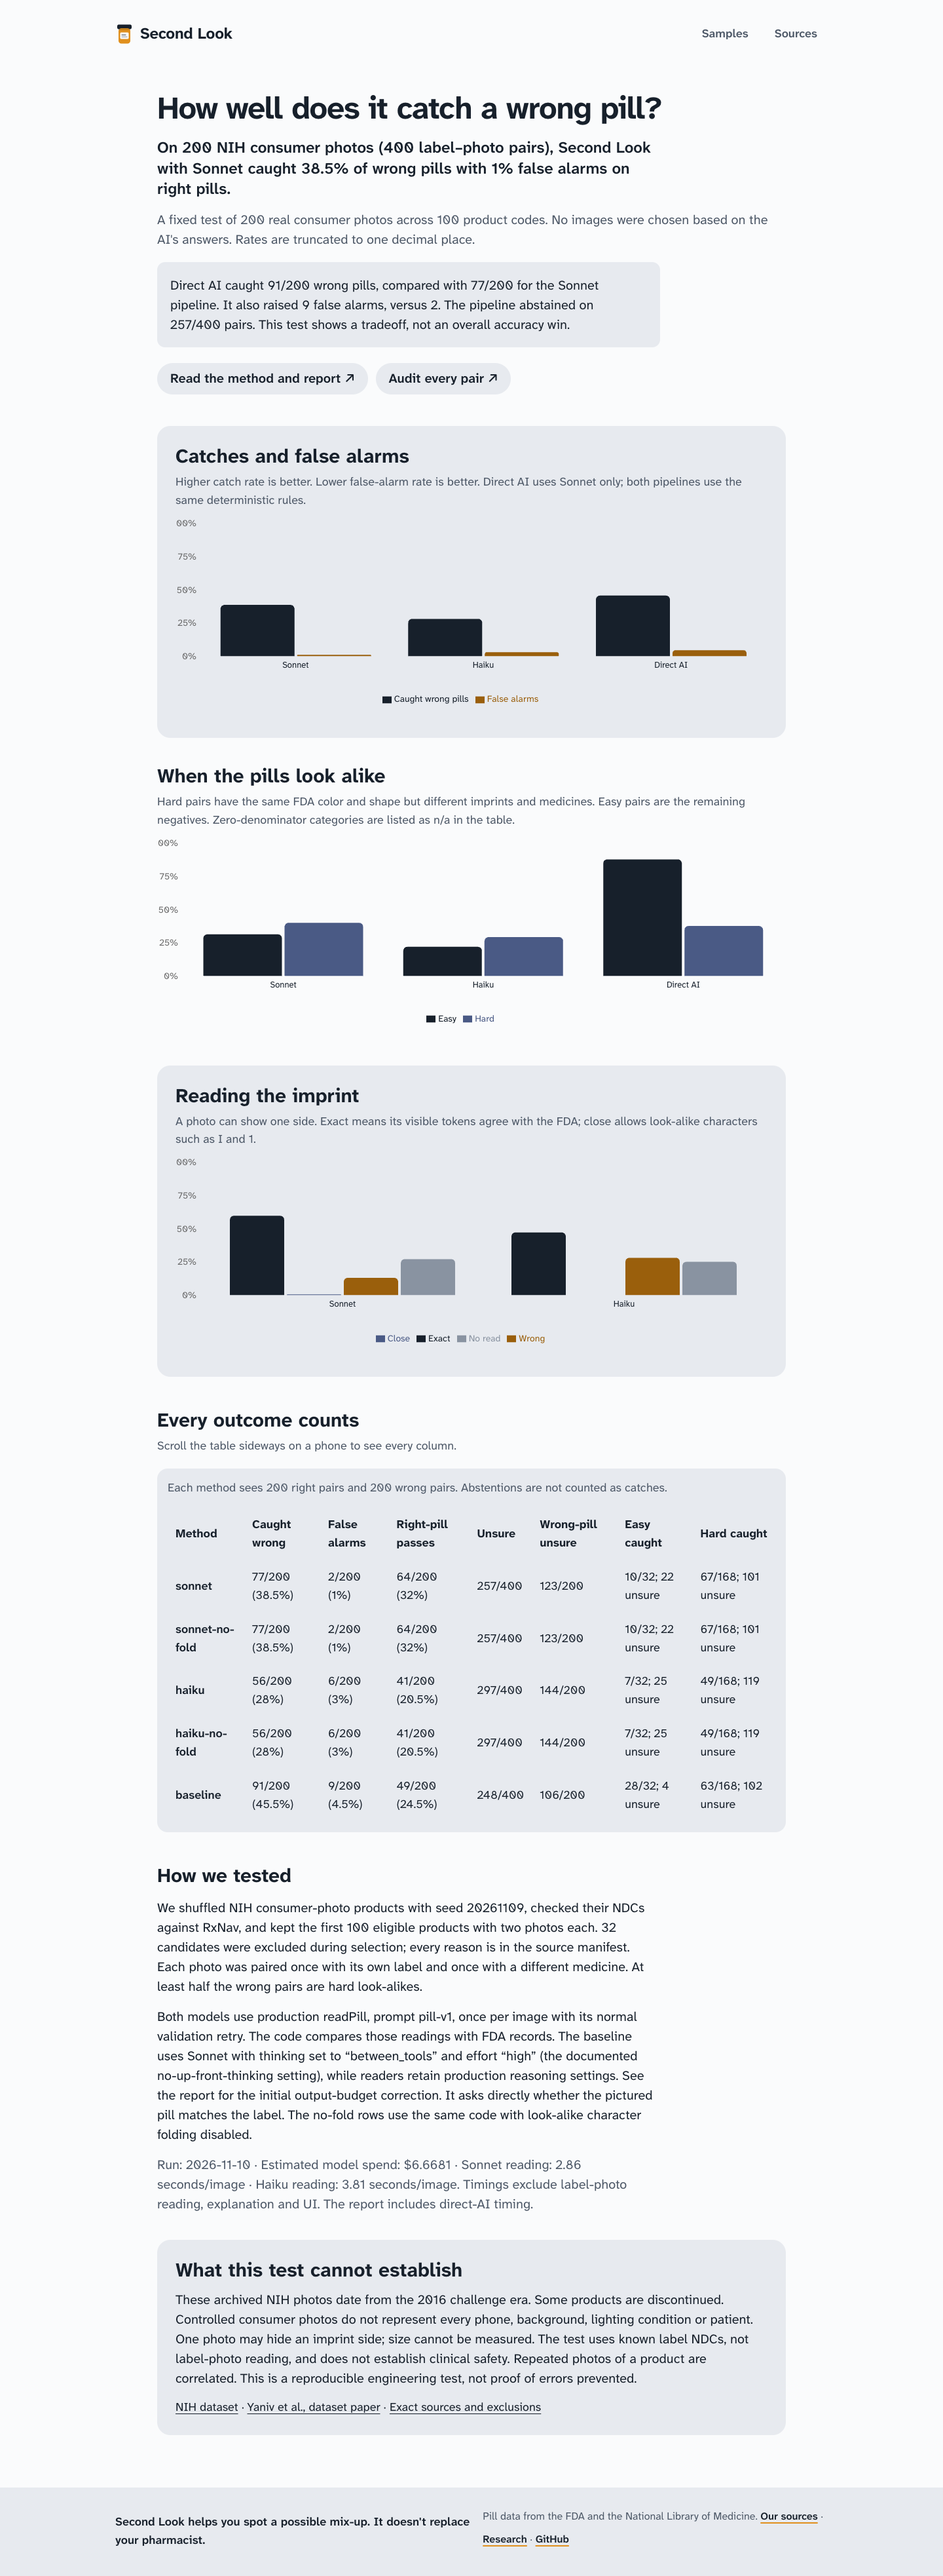
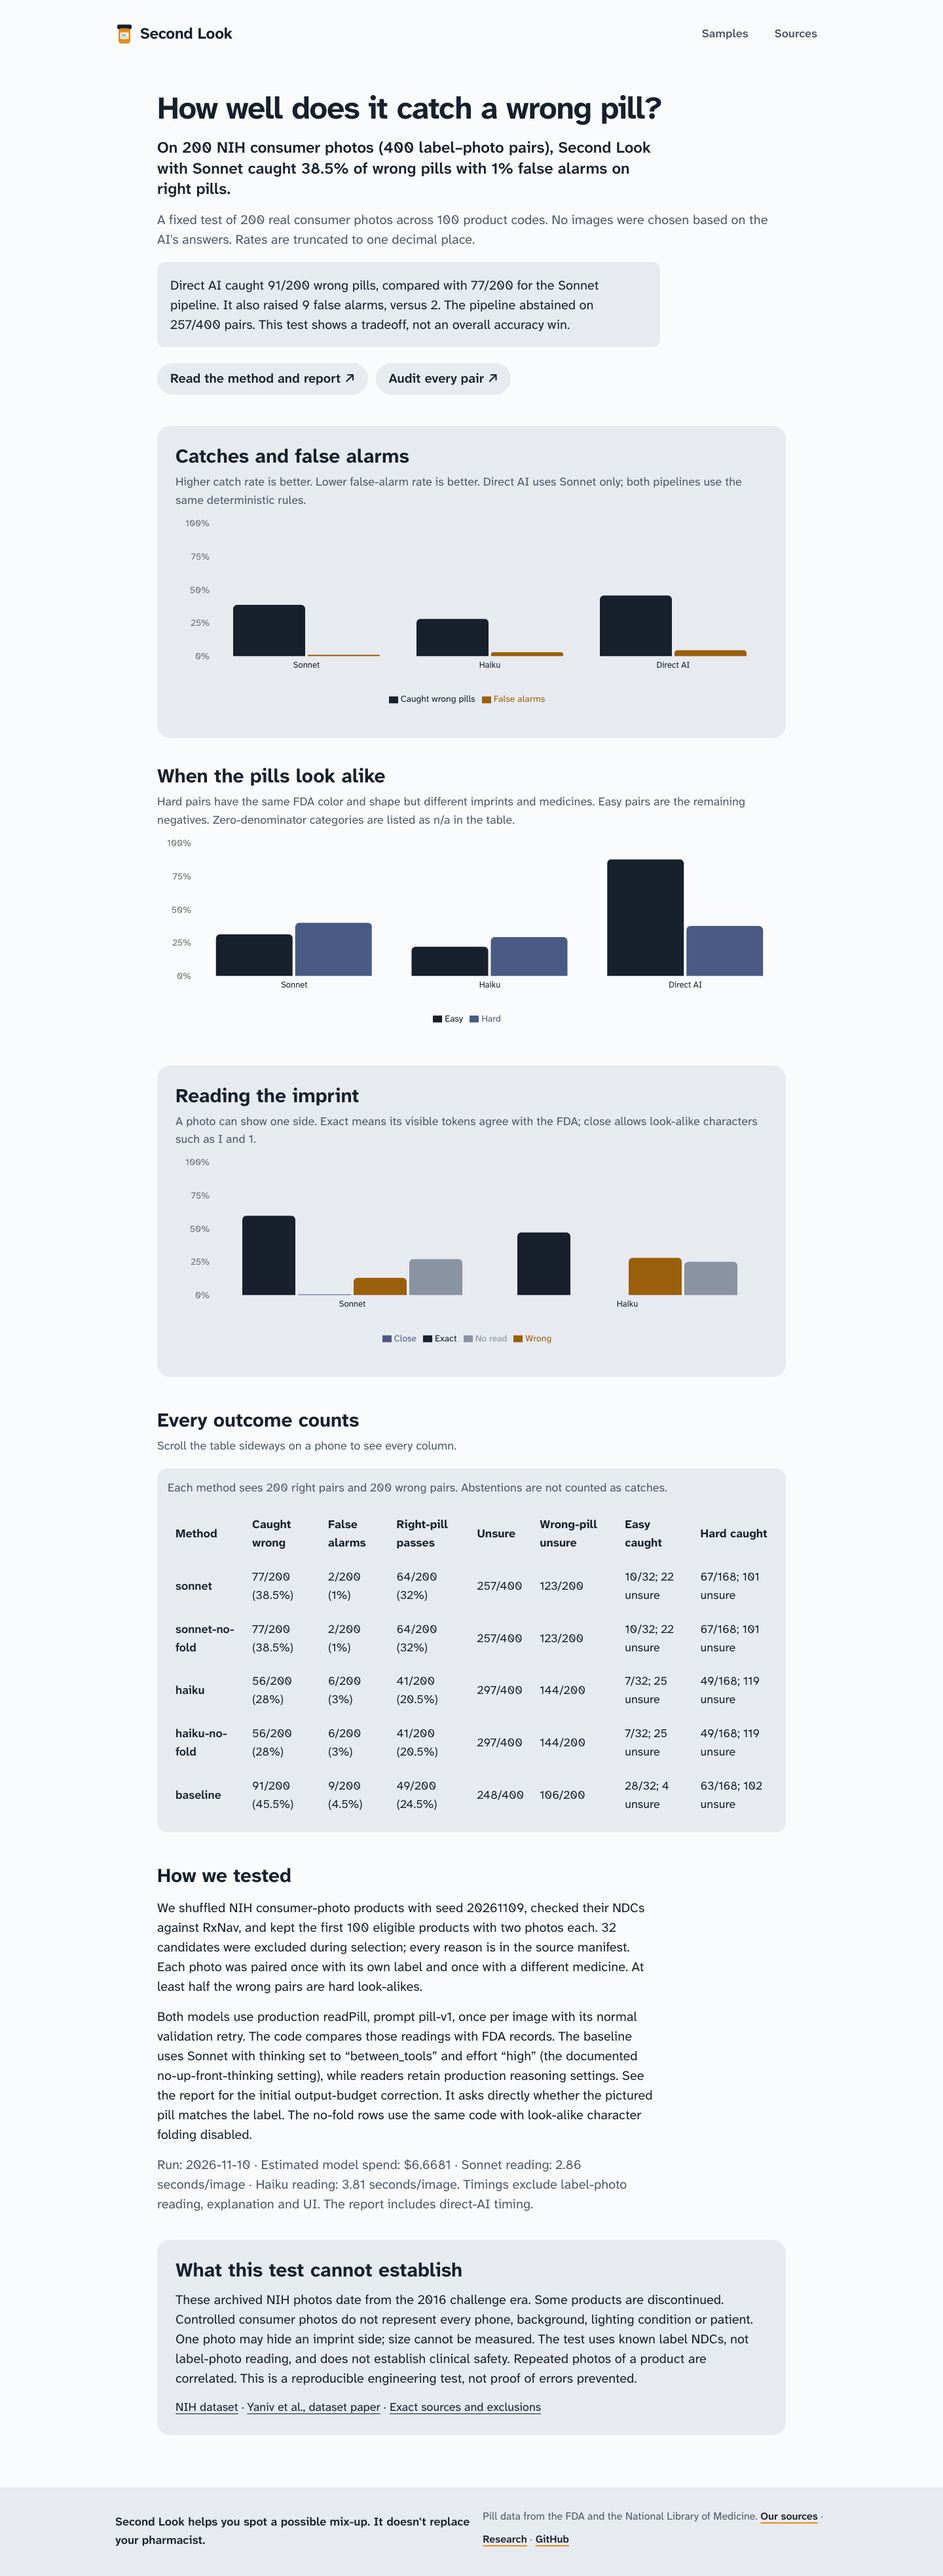
Record final phase 4 checks and responsive screenshots

diff --git a/HANDOFF.md b/HANDOFF.md
@@ -6,7 +6,7 @@ The planner reads this file when Vedhanth says "handoffs". Never delete old entr
 
 BUILDER: Codex
 HANDOFF — Phase 4
-STATUS: PARTIAL — implementation and cached measurements complete; final tests, screenshots and production deployment are being verified.
+STATUS: PARTIAL — implementation, audit, tests and screenshots complete; production publication/verification pending.
 
 WHAT I DID
[1 lines of base64/hex data omitted]
@@ -60,15 +60,16 @@ FILES CREATED / CHANGED
 - Updated: engine/matcher ONLY as listed above; home/sources/footer/README links; package files (+Recharts/research command); .gitignore. Screenshots in `docs/screenshots/phase-4/`.
 
 TESTS / REVIEW
-- Final resumed checks: PASS 142 tests / 22 files; lint, TypeScript and production build PASS. Only the two existing non-fatal Atkinson font override warnings. The final chart-margin visual fix is being rebuilt before publication.
+- Final resumed checks, repeated after the chart-margin fix: PASS 142 tests / 22 files; lint, TypeScript and production build PASS. Only the two existing non-fatal Atkinson font override warnings.
 - Original-engine equivalence audit: PASS 800/800 full results; no production drift.
 - Cached reproduction with ANTHROPIC_API_KEY unset: PASS, zero paid calls; cost ledger unchanged.
 - Earlier review findings fixed: incomplete result publication guard; explicit baseline reasoning configuration; conservative token-count/in-flight budget reservations in place of flat $0.10; equivalent-imprint negative exclusion; explicit unfavorable results/abstentions. Latest Codex review asked for artifact regeneration after source changes: fixed by cached regeneration, without new readings. Final source hashes must match committed implementation.
 - Final independent CSV/JSON audit: PASS, all 2,000 rows / five methods, balanced truth, 100 distinct product codes, hard-negative metadata, exact source hashes and cost-ledger totals agree. No downloaded NIH images are tracked.
-- Impeccable visual review found clipped percentage-axis labels; changed only the chart's left margin from -20 to 0. Research/home screenshots are being refreshed at 375 and 1440; no page-width overflow.
+- Impeccable visual review found clipped percentage-axis labels; changed only the chart's left margin from -20 to 0. Research/home screenshots refreshed at 375 and 1440. Browser checks PASS: three charts, correct headline, no runtime errors, no clipped axis labels and no page-width overflow at both widths.
+- Separate final Codex self-review of the full phase diff and reporting/axis follow-ups: no remaining blocking findings. The source-hash review finding is verified fixed, not merely documented. GitHub destination verified as public Vedu-2011/second-look, default branch main. Composio discovery returned 401, so existing authenticated GitHub/Vercel tools are used instead.
 
 HOW TO TEST / CURRENT STATE
-- Final local tests, build, screenshots and production checks are being completed before the final DONE update.
+- Local checklist completed: /research shows the 200-image / 400-pair headline, all five methods, the direct-AI tradeoff, three charts, abstentions, report/CSV links and limitations; home/footer/sources link to research. The complete run reproduces without an API key and without changing cost.json. Production checks remain pending before the final DONE update.
 - Production currently remains phase 3 until the reviewed feature branch is pushed to main, explicitly authorized by prompts/phase-4.md.
 - Planner has NOT been contacted. Real bottle-photo sample folders remain empty; phase 3's recorded examples are unchanged.
 
